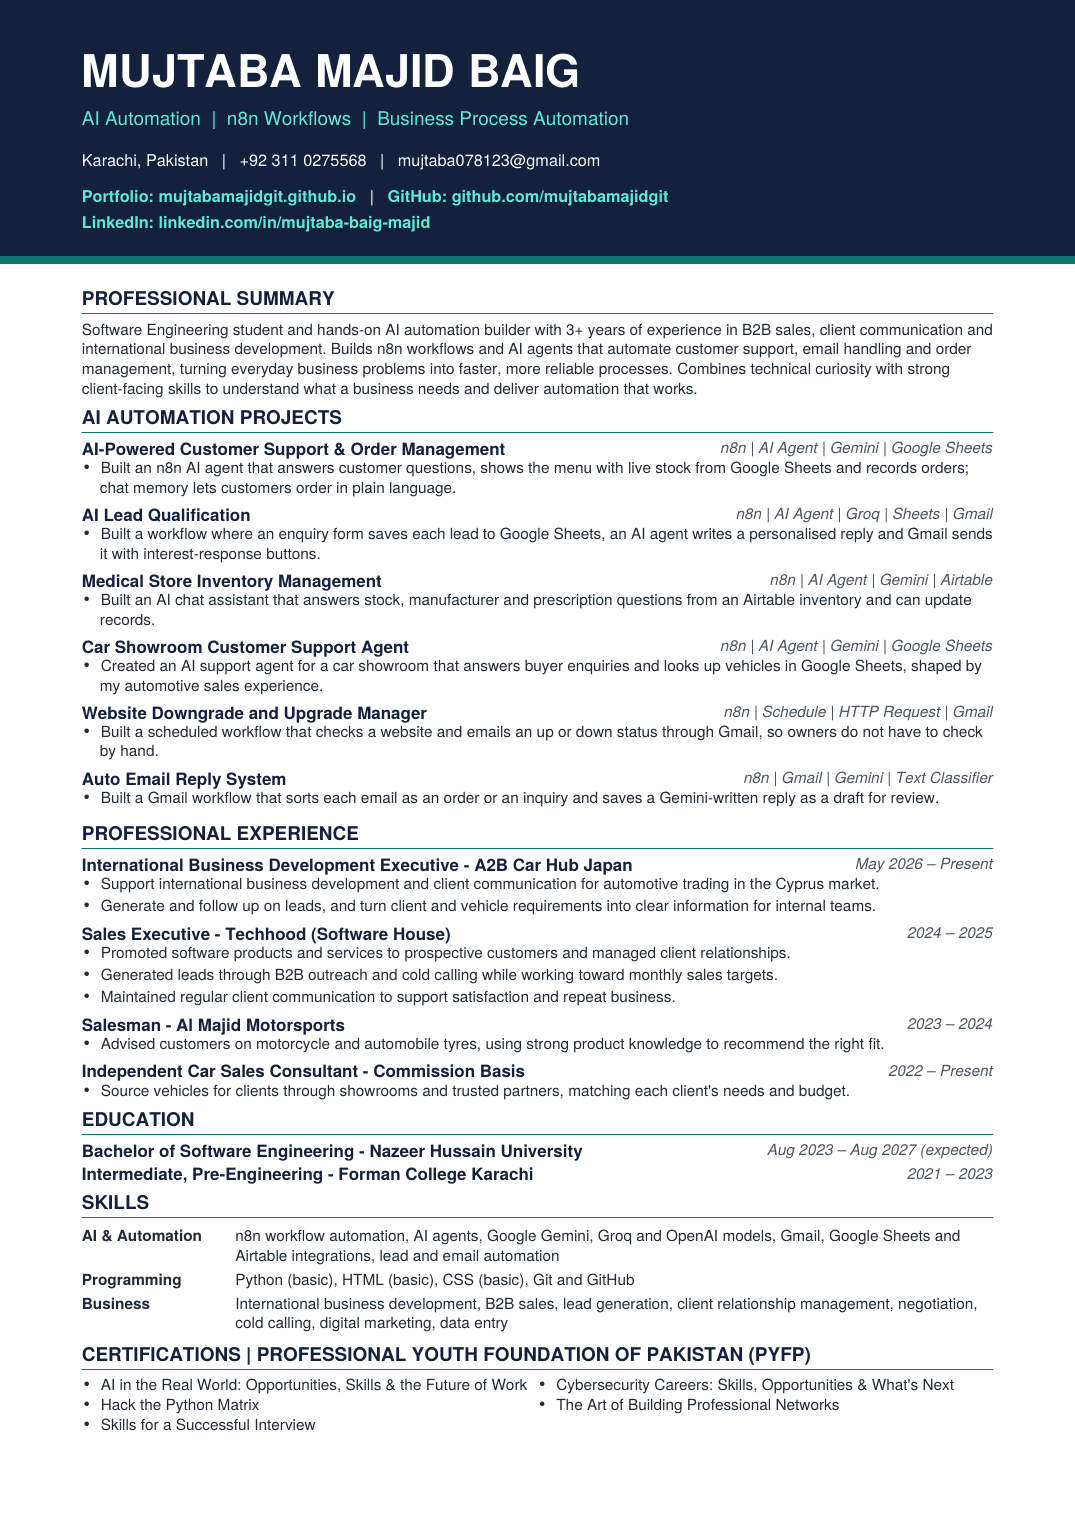
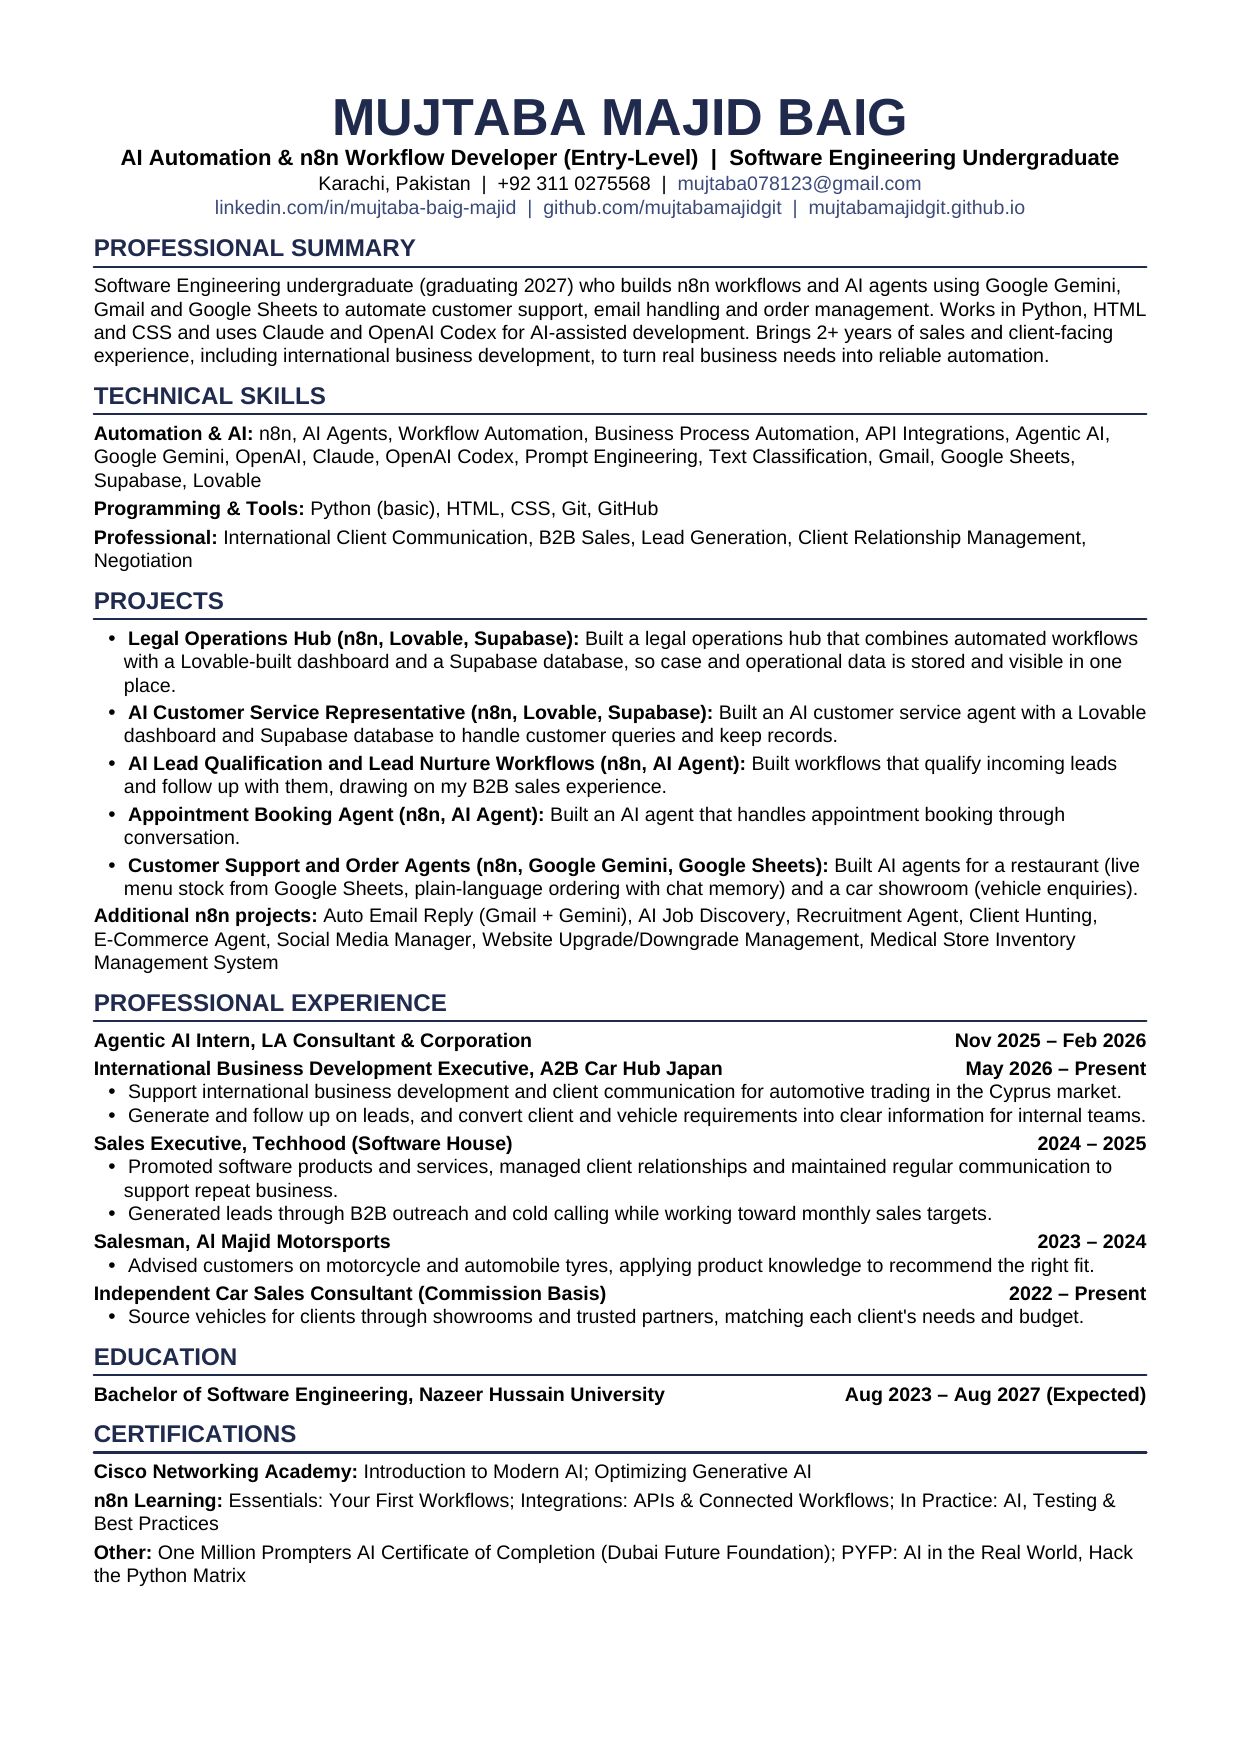
Add files via upload

diff --git a/cv.html b/cv.html
@@ -292,6 +292,17 @@ footer { border-top: 1px solid var(--line); }
   *, *::before, *::after { animation: none !important; transition: none !important; }
   .js .reveal { opacity: 1; transform: none; }
 }
+
+.cform-wrap { display: grid; grid-template-columns: minmax(0,1fr) minmax(0,1.1fr); gap: clamp(24px,5vw,56px); align-items: start; }
+.cform { display: flex; flex-direction: column; gap: 14px; background: var(--surface); border: 1px solid var(--line); border-radius: 16px; padding: clamp(18px,3vw,28px); position: relative; }
+.cform label { display: flex; flex-direction: column; gap: 6px; font-family: var(--font-mono); font-size: .74rem; letter-spacing: .08em; text-transform: uppercase; color: var(--muted); }
+.cform input, .cform textarea { font: 400 1rem var(--font-body); letter-spacing: 0; text-transform: none; color: var(--ink); background: var(--bg); border: 1.5px solid var(--line); border-radius: 10px; padding: 12px 14px; width: 100%; transition: border-color .25s, box-shadow .25s; }
+.cform textarea { resize: vertical; min-height: 120px; }
+.cform input:focus, .cform textarea:focus { outline: none; border-color: var(--accent); box-shadow: 0 0 0 3px rgba(11,90,84,.16); }
+.cform .btn { align-self: flex-start; cursor: pointer; }
+.cform-status { min-height: 1.4em; font-size: .92rem; color: var(--accent); font-weight: 600; }
+.cform-status.err { color: var(--trigger); }
+@media (max-width: 800px) { .cform-wrap { grid-template-columns: minmax(0,1fr); } }
 </style>
 </head>
 <body>
@@ -309,7 +320,17 @@ footer { border-top: 1px solid var(--line); }
       <section style="border-top:0;padding-top:24px">
         <div class="cv big"><a class="cv-sheet" href="Mujtaba-Majid-Baig-Resume.pdf" target="_blank" rel="noopener" aria-label="Open the resume as a PDF"><img src="cv-preview.png" alt="Full-size preview of Mujtaba Majid Baig's one-page resume." loading="lazy"></a></div>
       </section>
-      <section><div class="cta"><h2>Want something like this for your business?</h2><p>Tell me what slows your team down. I will tell you whether it can be automated and how it would work.</p><p class="status">mujtaba078123@gmail.com &middot; Karachi, Pakistan (UTC+5)</p><div class="actions"><a class="btn primary" href="contact.html">Contact me</a><a class="btn" href="https://wa.me/923110275568" target="_blank" rel="noopener">WhatsApp</a><a class="btn" href="projects.html">All projects</a></div></div></section>
+      <section id="message"><div class="cform-wrap">
+<div class="sec-head" style="margin-bottom:0"><p class="mono">Send a message</p><h2>Let's talk about the role</h2><p>Write a few lines about the job or project. I reply by email, usually within one working day.</p></div>
+<form class="cform" id="cform" novalidate>
+<label>Your name<input name="name" type="text" autocomplete="name" required placeholder="Full name"></label>
+<label>Your email<input name="email" type="email" autocomplete="email" required placeholder="you@company.com"></label>
+<label>Message<textarea name="message" rows="5" required placeholder="Tell me about the role or project"></textarea></label>
+<input type="text" name="_gotcha" tabindex="-1" autocomplete="off" aria-hidden="true" style="position:absolute;left:-9999px">
+<button class="btn primary" type="submit">Send message</button>
+<p class="cform-status" id="cform-status" role="status" aria-live="polite"></p>
+</form></div></section>
+<section><div class="cta"><h2>Want something like this for your business?</h2><p>Tell me what slows your team down. I will tell you whether it can be automated and how it would work.</p><p class="status">mujtaba078123@gmail.com &middot; Karachi, Pakistan (UTC+5)</p><div class="actions"><a class="btn primary" href="contact.html">Contact me</a><a class="btn" href="https://wa.me/923110275568" target="_blank" rel="noopener">WhatsApp</a><a class="btn" href="projects.html">All projects</a></div></div></section>
     </main><footer><span>Mujtaba Majid Baig &middot; Karachi, Pakistan (UTC+5)</span><span><a href="https://github.com/mujtabamajidgit" target="_blank" rel="noopener">GitHub</a> &middot; <a href="https://www.linkedin.com/in/mujtaba-baig-majid/" target="_blank" rel="noopener">LinkedIn</a> &middot; <a href="Mujtaba-Majid-Baig-Resume.pdf" target="_blank" rel="noopener">Resume (PDF)</a></span></footer></div>
 <script>
 (function(){
@@ -324,6 +345,32 @@ footer { border-top: 1px solid var(--line); }
   var io=new IntersectionObserver(function(es){es.forEach(function(e){if(e.isIntersecting){e.target.classList.add('in');io.unobserve(e.target);}});},{threshold:.08,rootMargin:'0px 0px -40px 0px'});
   els.forEach(function(el){el.classList.add('reveal');io.observe(el);});
   setTimeout(function(){els.forEach(function(el){el.classList.add('in');});},4000);
+})();
+</script>
+<script>
+(function(){
+  // To receive messages straight in your inbox: make a free form at formspree.io, then paste its address here, e.g. "https://formspree.io/f/abcdwxyz"
+  var FORM_ENDPOINT = "";
+  var EMAIL = "mujtaba078123@gmail.com";
+  var f = document.getElementById('cform'); if(!f) return;
+  var st = document.getElementById('cform-status');
+  f.addEventListener('submit', function(e){
+    e.preventDefault();
+    var d = new FormData(f);
+    var name=(d.get('name')||'').trim(), email=(d.get('email')||'').trim(), msg=(d.get('message')||'').trim();
+    st.className='cform-status';
+    if(d.get('_gotcha')) return;
+    if(!name||!/^\S+@\S+\.\S+$/.test(email)||!msg){ st.className='cform-status err'; st.textContent='Please fill in your name, a valid email and a message.'; return; }
+    if(FORM_ENDPOINT){
+      st.textContent='Sending...';
+      fetch(FORM_ENDPOINT,{method:'POST',headers:{'Accept':'application/json'},body:d})
+        .then(function(r){ if(r.ok){ f.reset(); st.textContent='Thank you! Your message was sent.'; } else { throw 0; } })
+        .catch(function(){ st.className='cform-status err'; st.textContent='Could not send. Please email '+EMAIL+' directly.'; });
+    } else {
+      location.href='mailto:'+EMAIL+'?subject='+encodeURIComponent('Message from '+name)+'&body='+encodeURIComponent(msg+'\n\n'+name+'\n'+email);
+      st.textContent='Opening your email app. If nothing opens, write to '+EMAIL+'.';
+    }
+  });
 })();
 </script>
 </body>

diff --git a/contact.html b/contact.html
@@ -292,6 +292,17 @@ footer { border-top: 1px solid var(--line); }
   *, *::before, *::after { animation: none !important; transition: none !important; }
   .js .reveal { opacity: 1; transform: none; }
 }
+
+.cform-wrap { display: grid; grid-template-columns: minmax(0,1fr) minmax(0,1.1fr); gap: clamp(24px,5vw,56px); align-items: start; }
+.cform { display: flex; flex-direction: column; gap: 14px; background: var(--surface); border: 1px solid var(--line); border-radius: 16px; padding: clamp(18px,3vw,28px); position: relative; }
+.cform label { display: flex; flex-direction: column; gap: 6px; font-family: var(--font-mono); font-size: .74rem; letter-spacing: .08em; text-transform: uppercase; color: var(--muted); }
+.cform input, .cform textarea { font: 400 1rem var(--font-body); letter-spacing: 0; text-transform: none; color: var(--ink); background: var(--bg); border: 1.5px solid var(--line); border-radius: 10px; padding: 12px 14px; width: 100%; transition: border-color .25s, box-shadow .25s; }
+.cform textarea { resize: vertical; min-height: 120px; }
+.cform input:focus, .cform textarea:focus { outline: none; border-color: var(--accent); box-shadow: 0 0 0 3px rgba(11,90,84,.16); }
+.cform .btn { align-self: flex-start; cursor: pointer; }
+.cform-status { min-height: 1.4em; font-size: .92rem; color: var(--accent); font-weight: 600; }
+.cform-status.err { color: var(--trigger); }
+@media (max-width: 800px) { .cform-wrap { grid-template-columns: minmax(0,1fr); } }
 </style>
 </head>
 <body>
@@ -308,6 +319,16 @@ footer { border-top: 1px solid var(--line); }
           </div>
         </div>
       </section>
+<section id="message"><div class="cform-wrap">
+<div class="sec-head" style="margin-bottom:0"><p class="mono">Send a message</p><h2>Let's talk about the role</h2><p>Write a few lines about the job or project. I reply by email, usually within one working day.</p></div>
+<form class="cform" id="cform" novalidate>
+<label>Your name<input name="name" type="text" autocomplete="name" required placeholder="Full name"></label>
+<label>Your email<input name="email" type="email" autocomplete="email" required placeholder="you@company.com"></label>
+<label>Message<textarea name="message" rows="5" required placeholder="Tell me about the role or project"></textarea></label>
+<input type="text" name="_gotcha" tabindex="-1" autocomplete="off" aria-hidden="true" style="position:absolute;left:-9999px">
+<button class="btn primary" type="submit">Send message</button>
+<p class="cform-status" id="cform-status" role="status" aria-live="polite"></p>
+</form></div></section>
 </main><footer><span>Mujtaba Majid Baig &middot; Karachi, Pakistan (UTC+5)</span><span><a href="https://github.com/mujtabamajidgit" target="_blank" rel="noopener">GitHub</a> &middot; <a href="https://www.linkedin.com/in/mujtaba-baig-majid/" target="_blank" rel="noopener">LinkedIn</a> &middot; <a href="Mujtaba-Majid-Baig-Resume.pdf" target="_blank" rel="noopener">Resume (PDF)</a></span></footer></div><script>
 document.querySelectorAll('[data-copy]').forEach(function (btn) {
   btn.addEventListener('click', function () {
@@ -335,6 +356,32 @@ document.querySelectorAll('[data-copy]').forEach(function (btn) {
   var io=new IntersectionObserver(function(es){es.forEach(function(e){if(e.isIntersecting){e.target.classList.add('in');io.unobserve(e.target);}});},{threshold:.08,rootMargin:'0px 0px -40px 0px'});
   els.forEach(function(el){el.classList.add('reveal');io.observe(el);});
   setTimeout(function(){els.forEach(function(el){el.classList.add('in');});},4000);
+})();
+</script>
+<script>
+(function(){
+  // To receive messages straight in your inbox: make a free form at formspree.io, then paste its address here, e.g. "https://formspree.io/f/abcdwxyz"
+  var FORM_ENDPOINT = "";
+  var EMAIL = "mujtaba078123@gmail.com";
+  var f = document.getElementById('cform'); if(!f) return;
+  var st = document.getElementById('cform-status');
+  f.addEventListener('submit', function(e){
+    e.preventDefault();
+    var d = new FormData(f);
+    var name=(d.get('name')||'').trim(), email=(d.get('email')||'').trim(), msg=(d.get('message')||'').trim();
+    st.className='cform-status';
+    if(d.get('_gotcha')) return;
+    if(!name||!/^\S+@\S+\.\S+$/.test(email)||!msg){ st.className='cform-status err'; st.textContent='Please fill in your name, a valid email and a message.'; return; }
+    if(FORM_ENDPOINT){
+      st.textContent='Sending...';
+      fetch(FORM_ENDPOINT,{method:'POST',headers:{'Accept':'application/json'},body:d})
+        .then(function(r){ if(r.ok){ f.reset(); st.textContent='Thank you! Your message was sent.'; } else { throw 0; } })
+        .catch(function(){ st.className='cform-status err'; st.textContent='Could not send. Please email '+EMAIL+' directly.'; });
+    } else {
+      location.href='mailto:'+EMAIL+'?subject='+encodeURIComponent('Message from '+name)+'&body='+encodeURIComponent(msg+'\n\n'+name+'\n'+email);
+      st.textContent='Opening your email app. If nothing opens, write to '+EMAIL+'.';
+    }
+  });
 })();
 </script>
 </body>
